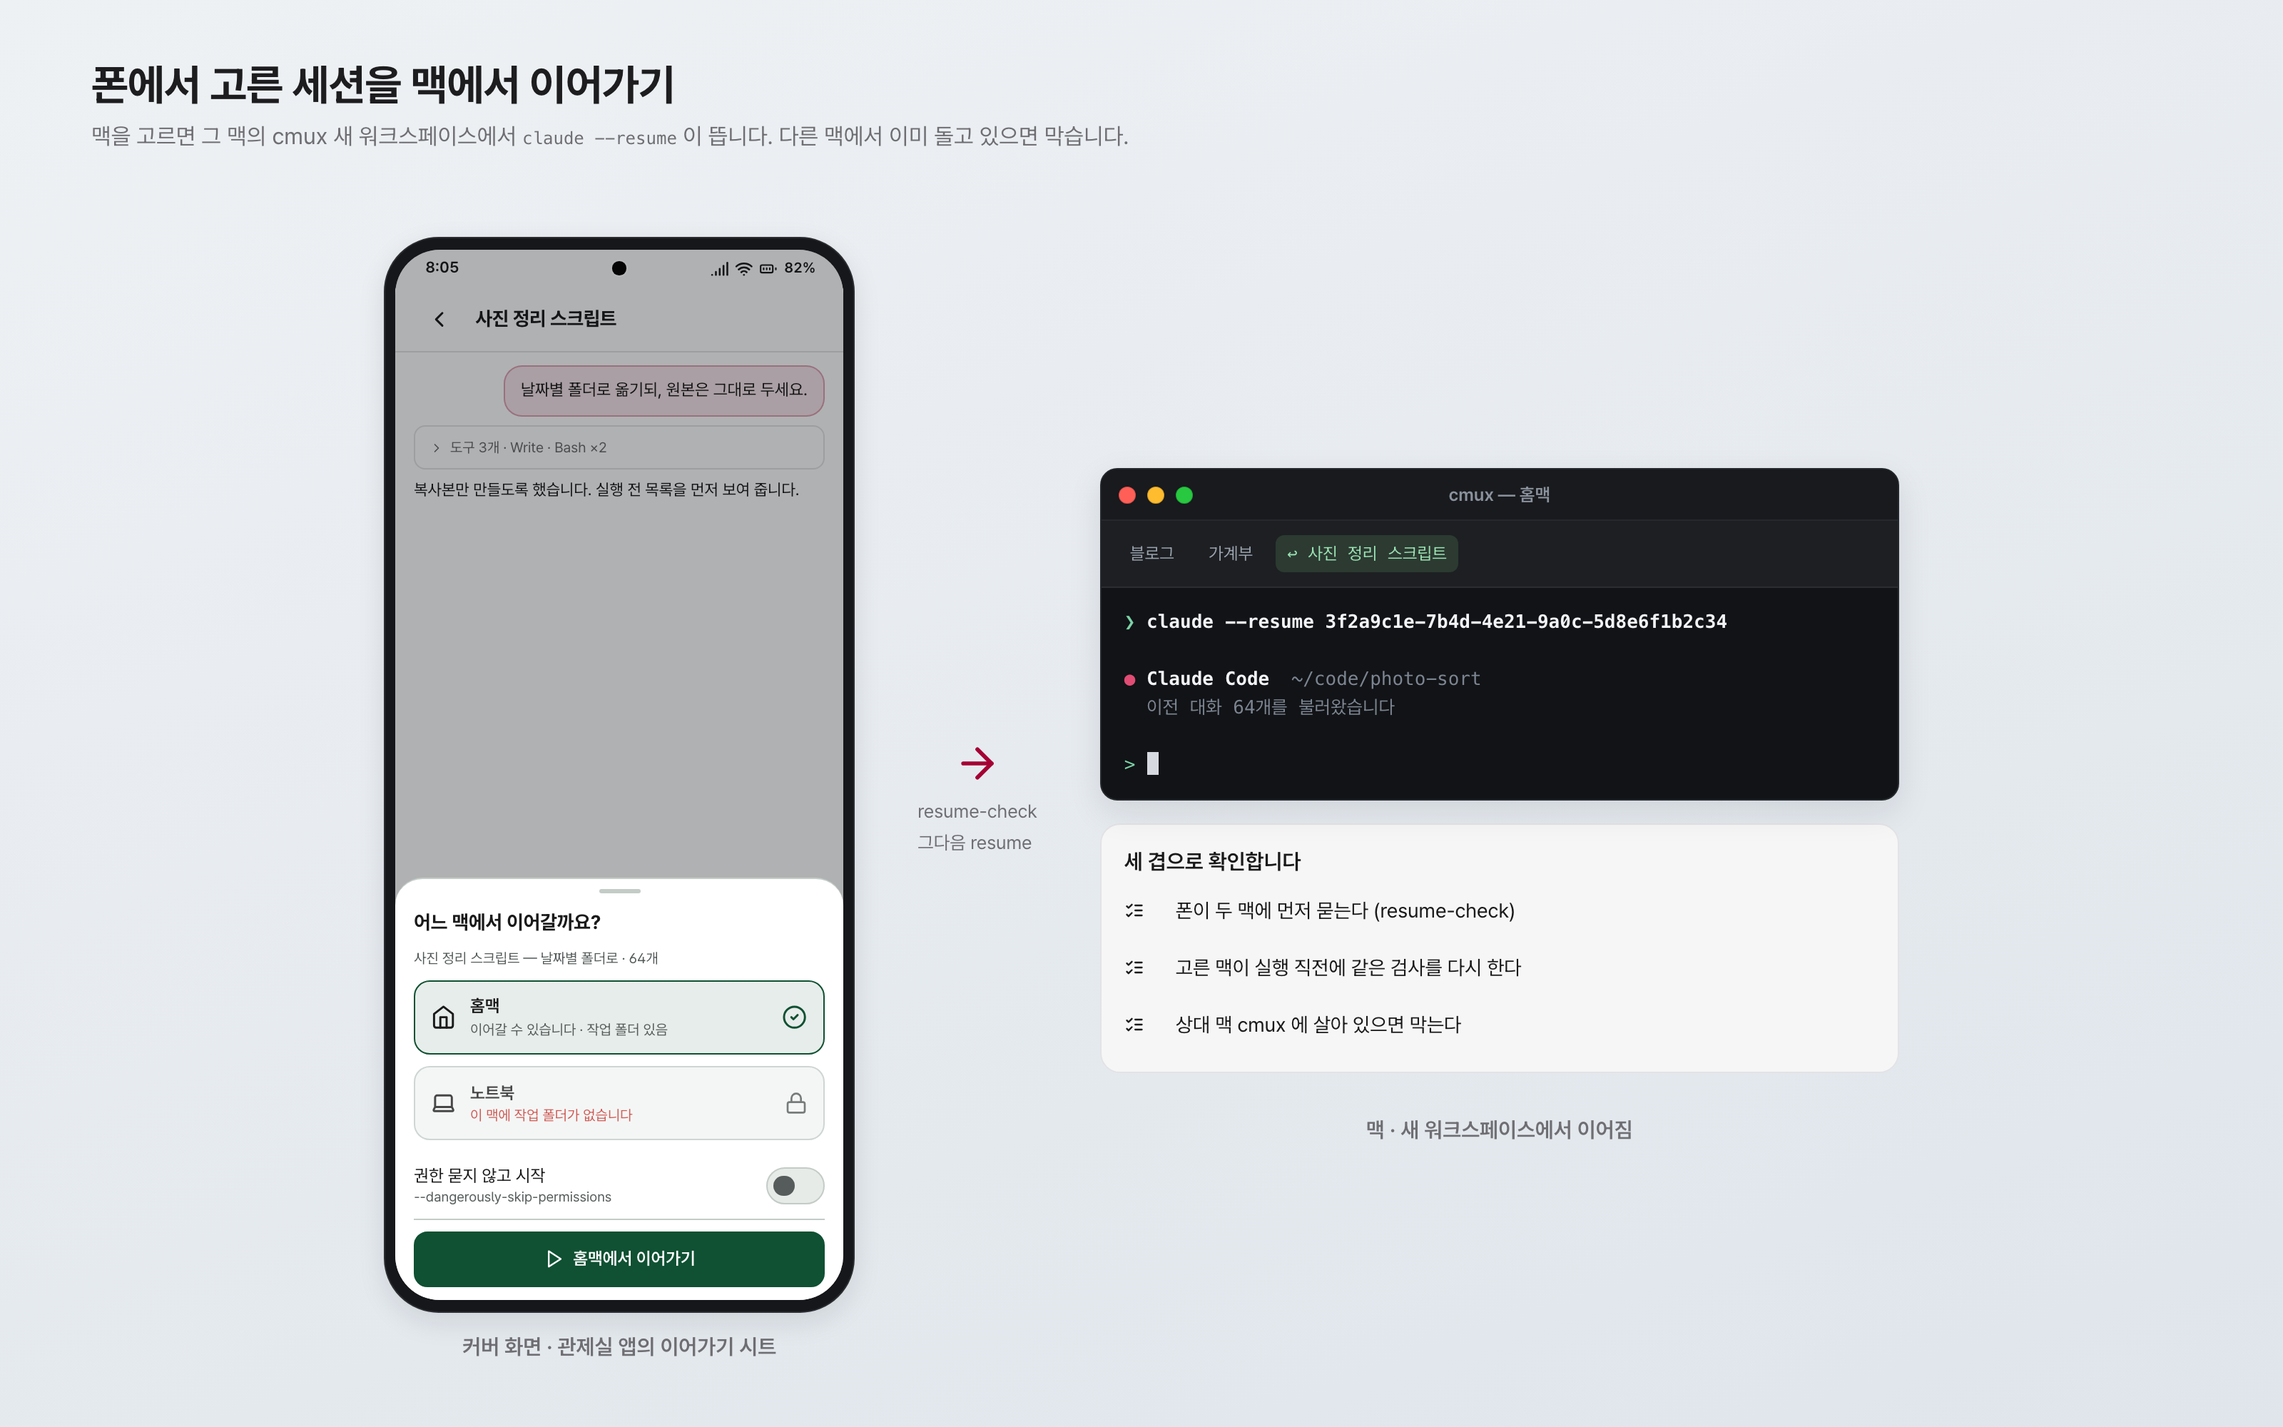
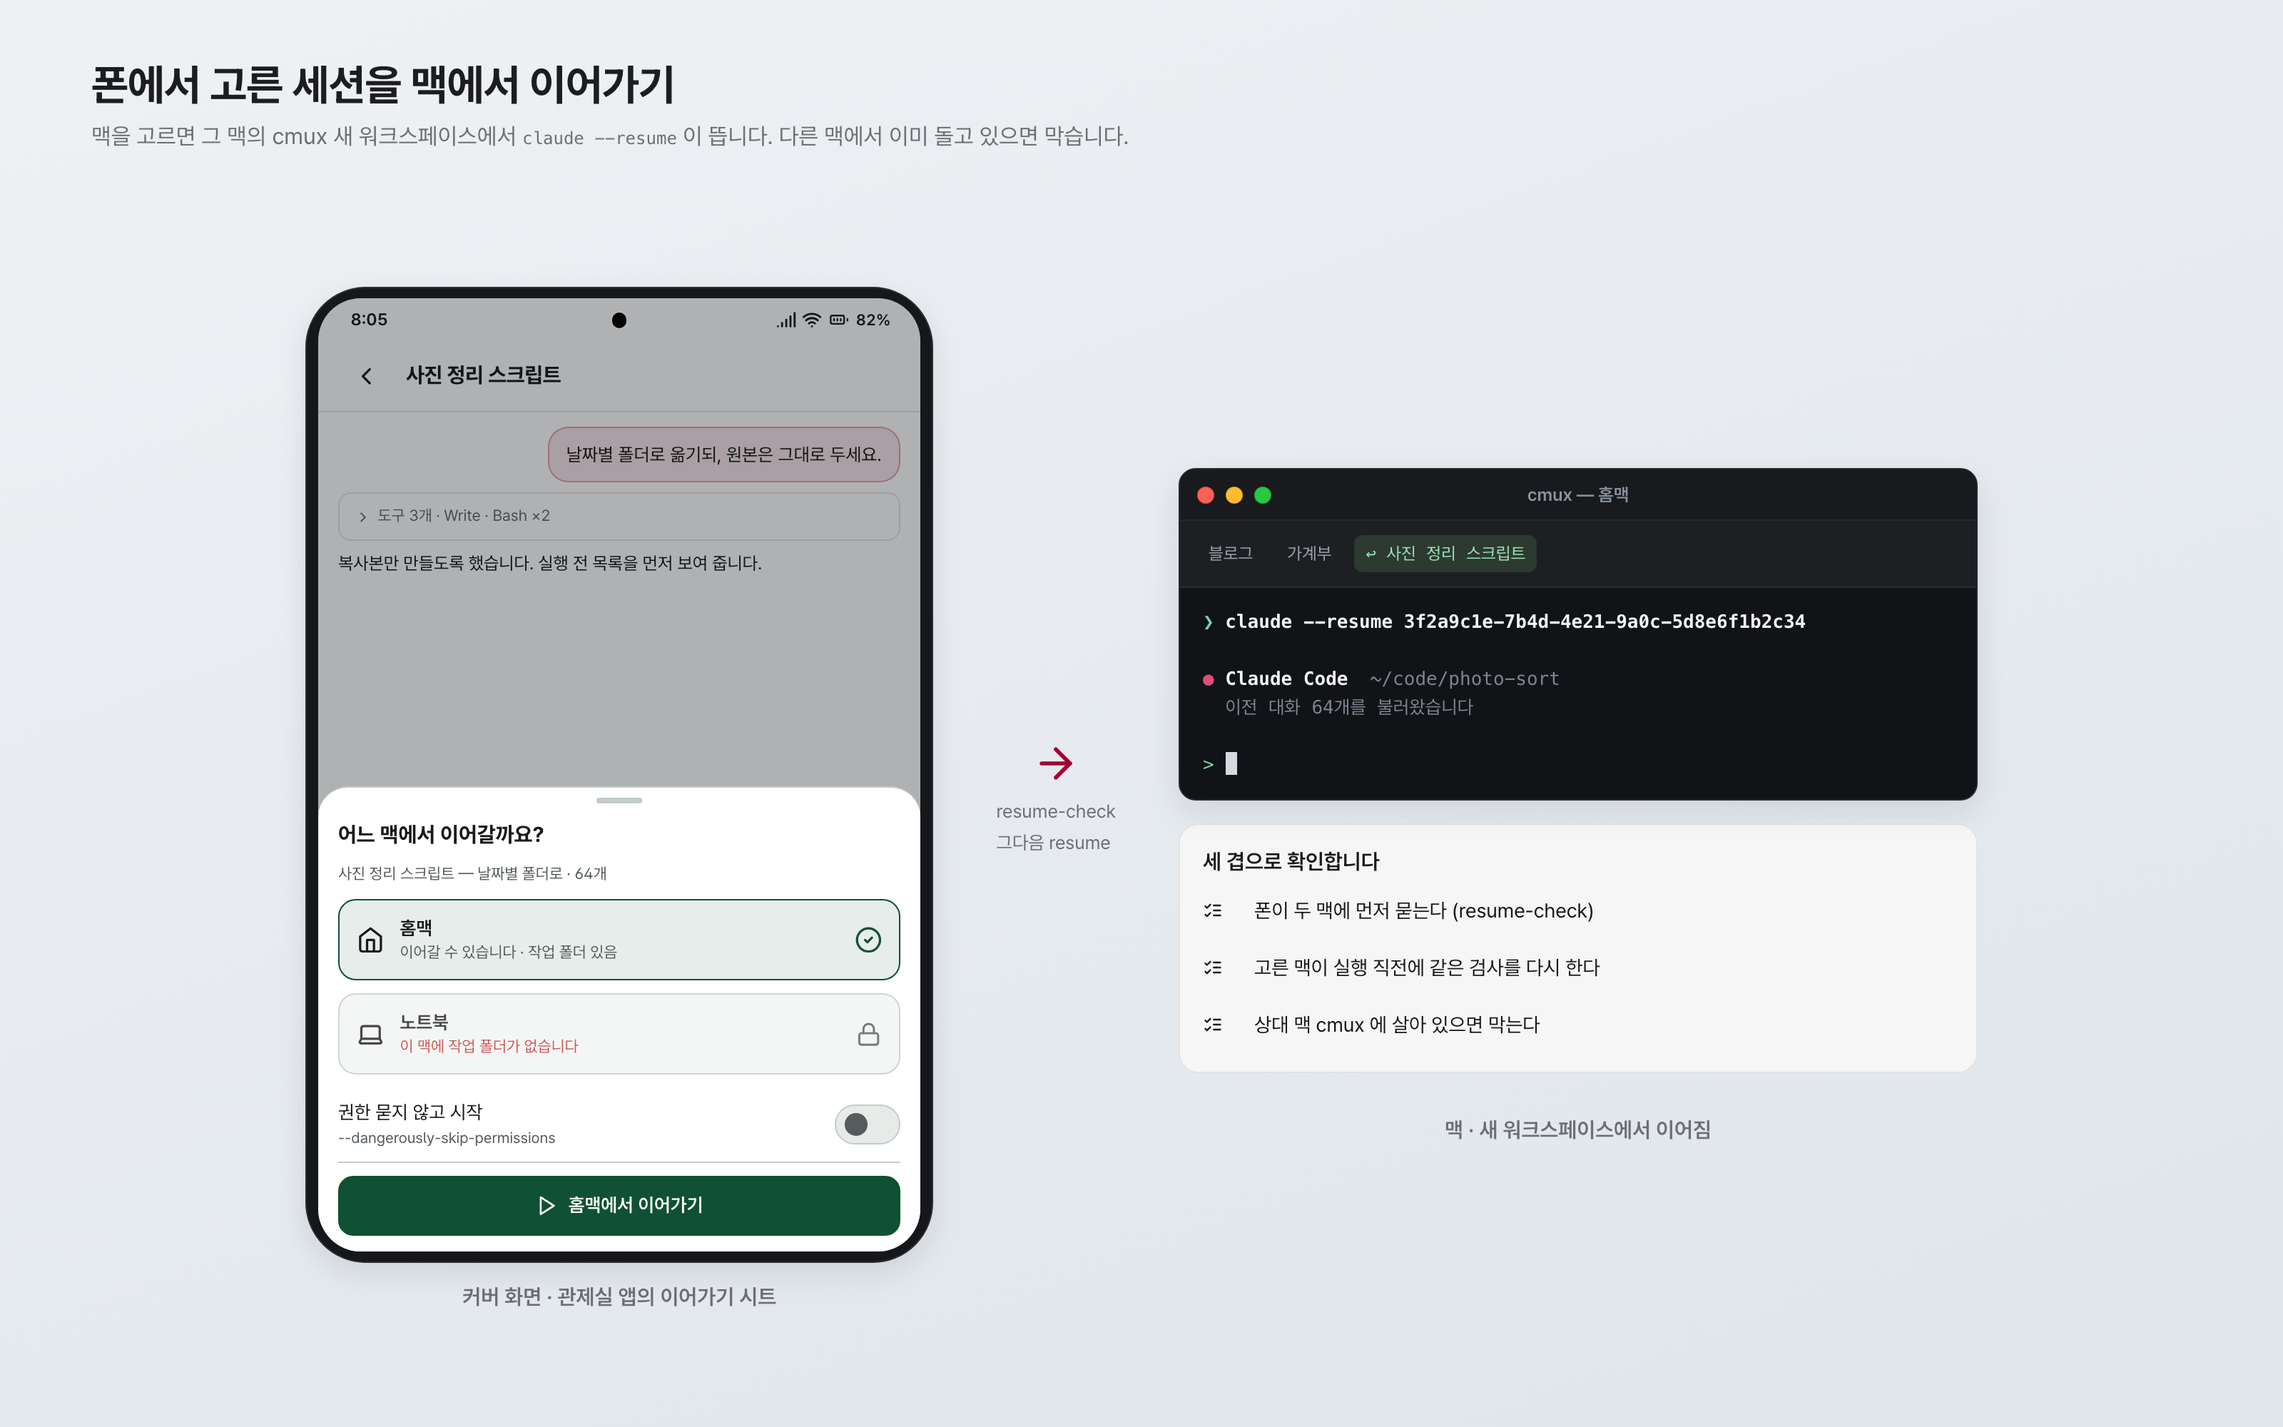
docs: re-render mockups at real Galaxy Z Fold8 ratios
Cover 480x758dp (0.63:1), unfolded 940x710dp landscape with a vertical
crease. Two-pane layouts split at the crease, the cover session list flows
as a two-column tile grid, tabletop uses the portrait-held unfolded screen
(horizontal crease). Resume scene recomposed on the corrected cover base.

diff --git a/docs/mockups/thumbnail.html b/docs/mockups/thumbnail.html
@@ -45,13 +45,36 @@
   .find { display: flex; align-items: center; gap: 10px; height: 38px; padding: 0 12px; border-radius: 10px; background: var(--panel2); font-size: 13.5px; color: var(--text); }
   .find i { font-size: 16px; color: var(--dim); }
   .aa { font-weight: 700; }
-  .tlay { position: absolute; inset: 0; display: flex; flex-wrap: nowrap; align-items: center; justify-content: center; gap: 40px; padding: 0 50px; }
-  .txt { width: 470px; flex: none; display: flex; flex-direction: column; gap: 18px; }
+  .tlay { position: absolute; inset: 0; display: flex; flex-wrap: nowrap; align-items: center; justify-content: center; gap: 34px; padding: 0 40px; }
+  .txt { width: 420px; flex: none; display: flex; flex-direction: column; gap: 18px; }
   .txt .appicon { width: 96px; height: 96px; border-radius: 24px; }
   .txt h1 { margin: 0; font-size: 60px; line-height: 70px; font-weight: 800; letter-spacing: -1px; color: var(--mac-text); }
   .txt p { margin: 0; font-size: 24px; line-height: 36px; color: var(--mac-dim); }
   .pills { display: flex; gap: 10px; flex-wrap: wrap; }
   .pills span { font-size: 17px; padding: 6px 14px; border-radius: 999px; background: color-mix(in srgb, #A50034 10%, white); color: #A50034; font-weight: 600; }
+
+  /* 폴드8 실측 비율: 펼침 940x710 가로 → 2칸을 세로 접힘선에서 반씩 */
+  .two-pane.list-detail { grid-template-columns: 1fr 1fr; }
+  .list-detail .sess { display: grid; grid-template-columns: minmax(0,1fr) auto; column-gap: 10px; row-gap: 3px; padding: 8px 14px; }
+  .list-detail .sess > .top, .list-detail .sess > .snip { grid-column: 1 / -1; }
+  .list-detail .sess > .t { grid-column: 1; grid-row: 2; }
+  .list-detail .sess > .tags, .list-detail .sess > .fold { grid-column: 2; grid-row: 2; align-self: center; }
+
+  /* 폴드8 커버 480x758 (0.63:1) — 넓은 화면이라 목록을 2열 타일로 흘린다 */
+  .cover-list { display: grid !important; grid-template-columns: 1fr 1fr; align-content: start; gap: 10px !important; padding: 0 12px 12px !important; }
+  .cover-list > .head, .cover-list > .group-h { grid-column: 1 / -1; margin: 0 -12px; }
+  .cover-list > .group-h { margin-bottom: 0; }
+  .cover-list .sess { border: 1px solid var(--border); border-radius: 14px; padding: 12px 12px !important; gap: 8px; background: var(--panel); min-height: 104px; }
+  .cover-list .sess .t { font-size: 15px; line-height: 21px; }
+  .list-detail .head.inline { flex-direction: row; align-items: center; }
+  .list-detail .head.inline .search { flex: 1; min-width: 0; }
+  .list-detail .head.inline .chips { flex: none; flex-wrap: nowrap; }
+  .list-detail > .pane:not(.flush) { gap: 6px; padding-top: 10px; }
+  .list-detail .code { margin-top: 3px; }
+  .list-detail .head.inline { gap: 6px; }
+  .list-detail .head.inline .chips { gap: 4px; }
+  .list-detail .head.inline .chip { padding: 0 8px; gap: 3px; font-size: 12.5px; }
+  .list-detail .head.inline .search { padding: 0 10px; gap: 6px; font-size: 13px; }
 </style>
 </head>
 <body>
@@ -63,7 +86,7 @@
       <p>두 맥의 Claude Code 대화를<br>폴드8에서 찾고 읽고 이어갑니다.</p>
       <div class="pills"><span>커버 1칸</span><span>펼침 2칸</span><span>테이블톱</span><span>맥에서 이어가기</span></div>
     </div>
-    <div class="fold-open" style="--zoom:.68">
+    <div class="fold-open" style="--zoom:.64">
         <div class="screen">
           <div class="status-bar" data-time="3:19"></div>
           <div class="app-bar">
@@ -76,8 +99,8 @@
           </div>
           <div class="two-pane list-detail">
             <div class="pane flush">
-              <div class="head">
-                <div class="search"><i data-icon="search"></i>세션 검색… (엔터 = 본문)</div>
+              <div class="head inline">
+                <div class="search"><i data-icon="search"></i><span class="ellipsis">세션 검색… (엔터 = 본문)</span></div>
                 <div class="chips">
                   <span class="chip"><i data-icon="folder"></i>폴더</span>
                   <span class="chip"><i data-icon="calendar"></i>날짜</span>
@@ -147,7 +170,7 @@
           <div class="nav-handle"></div>
         </div>
       </div>
-    <div class="fold-cover" style="--zoom:.68">
+    <div class="fold-cover" style="--zoom:.64">
         <div class="screen">
           <div class="status-bar" data-time="3:19"></div>
           <div class="app-bar">

diff --git a/docs/mockups/hero.html b/docs/mockups/hero.html
@@ -7,8 +7,8 @@
 <link rel="stylesheet" href="https://mockup-kit.invalid/kit.css">
 <script src="https://mockup-kit.invalid/kit.js"></script>
 <style>
-  .layout { position: absolute; top: 30px; left: 0; right: 0; bottom: 0; display: flex; align-items: center; justify-content: center; gap: 32px; }
-  .mac-col { width: 430px; display: flex; flex-direction: column; gap: 18px; align-self: stretch; justify-content: center; padding-top: 10px; }
+  .layout { position: absolute; top: 30px; left: 0; right: 0; bottom: 0; display: flex; align-items: center; justify-content: center; gap: 26px; }
+  .mac-col { width: 400px; display: flex; flex-direction: column; gap: 18px; align-self: stretch; justify-content: center; padding-top: 10px; }
   .search { display: flex; align-items: center; gap: 8px; height: 40px; padding: 0 12px; border-radius: 12px; background: var(--panel2); color: var(--dim); font-size: 14px; }
   .search i { font-size: 18px; }
   .live { display: inline-flex; align-items: center; gap: 5px; padding: 1px 8px; border-radius: 6px; font-size: 11.5px; line-height: 18px; font-weight: 600;
@@ -37,6 +37,29 @@
   .ai ul { margin: 4px 0 0 18px; padding: 0; }
   .btn-sm { height: 32px; padding: 0 12px; font-size: 13px; }
   .cover-list .sess { padding: 10px 12px; }
+
+  /* 폴드8 실측 비율: 펼침 940x710 가로 → 2칸을 세로 접힘선에서 반씩 */
+  .two-pane.list-detail { grid-template-columns: 1fr 1fr; }
+  .list-detail .sess { display: grid; grid-template-columns: minmax(0,1fr) auto; column-gap: 10px; row-gap: 3px; padding: 8px 14px; }
+  .list-detail .sess > .top, .list-detail .sess > .snip { grid-column: 1 / -1; }
+  .list-detail .sess > .t { grid-column: 1; grid-row: 2; }
+  .list-detail .sess > .tags, .list-detail .sess > .fold { grid-column: 2; grid-row: 2; align-self: center; }
+
+  /* 폴드8 커버 480x758 (0.63:1) — 넓은 화면이라 목록을 2열 타일로 흘린다 */
+  .cover-list { display: grid !important; grid-template-columns: 1fr 1fr; align-content: start; gap: 10px !important; padding: 0 12px 12px !important; }
+  .cover-list > .head, .cover-list > .group-h { grid-column: 1 / -1; margin: 0 -12px; }
+  .cover-list > .group-h { margin-bottom: 0; }
+  .cover-list .sess { border: 1px solid var(--border); border-radius: 14px; padding: 12px 12px !important; gap: 8px; background: var(--panel); min-height: 104px; }
+  .cover-list .sess .t { font-size: 15px; line-height: 21px; }
+  .list-detail .head.inline { flex-direction: row; align-items: center; }
+  .list-detail .head.inline .search { flex: 1; min-width: 0; }
+  .list-detail .head.inline .chips { flex: none; flex-wrap: nowrap; }
+  .list-detail > .pane:not(.flush) { gap: 6px; padding-top: 10px; }
+  .list-detail .code { margin-top: 3px; }
+  .list-detail .head.inline { gap: 6px; }
+  .list-detail .head.inline .chips { gap: 4px; }
+  .list-detail .head.inline .chip { padding: 0 8px; gap: 3px; font-size: 12.5px; }
+  .list-detail .head.inline .search { padding: 0 10px; gap: 6px; font-size: 13px; }
 </style>
 </head>
 <body>
@@ -56,7 +79,7 @@
 
     <!-- 펼침: 목록 + 대화 -->
     <div>
-      <div class="fold-open" style="--zoom:.76">
+      <div class="fold-open" style="--zoom:.72">
         <div class="screen">
           <div class="status-bar" data-time="3:19"></div>
           <div class="app-bar">
@@ -69,8 +92,8 @@
           </div>
           <div class="two-pane list-detail">
             <div class="pane flush">
-              <div class="head">
-                <div class="search"><i data-icon="search"></i>세션 검색… (엔터 = 본문)</div>
+              <div class="head inline">
+                <div class="search"><i data-icon="search"></i><span class="ellipsis">세션 검색… (엔터 = 본문)</span></div>
                 <div class="chips">
                   <span class="chip"><i data-icon="folder"></i>폴더</span>
                   <span class="chip"><i data-icon="calendar"></i>날짜</span>
@@ -145,7 +168,7 @@
 
     <!-- 커버: 목록 1칸 -->
     <div>
-      <div class="fold-cover" style="--zoom:.76">
+      <div class="fold-cover" style="--zoom:.72">
         <div class="screen">
           <div class="status-bar" data-time="3:19"></div>
           <div class="app-bar">

diff --git a/docs/mockups/tabletop.html b/docs/mockups/tabletop.html
@@ -46,14 +46,11 @@
   .find i { font-size: 16px; color: var(--dim); }
   .aa { font-weight: 700; }
   .layout { position: absolute; top: 130px; left: 0; right: 0; bottom: 0; display: flex; align-items: center; justify-content: center; gap: 48px; }
-  .fold-open.land > .screen { width: 940px; height: 832px; }
-  .fold-open.land > .screen::before { top: calc(50% - 12px); bottom: auto; left: 0; right: 0; width: auto; height: 24px;
-    background: linear-gradient(180deg, transparent 0%, rgba(255,255,255,.03) 42%, rgba(0,0,0,.18) 50%, rgba(255,255,255,.03) 58%, transparent 100%); }
-  .fold-open.land > .screen::after { top: 12px; left: 50%; }
-  .upper { height: 382px; display: flex; flex-direction: column; gap: 8px; padding: 10px 18px; overflow: hidden; }
+  /* 폴드8 펼침을 세로로 세운 반접힘: 710x940, 접힘선 가로(킷 .portrait) → 위아래 470 씩 */
+  .upper { height: 436px; display: flex; flex-direction: column; gap: 8px; padding: 10px 18px; overflow: hidden; }
   .lower { flex: 1; min-height: 0; border-top: 1px solid var(--border); padding: 18px 18px 8px; display: flex; flex-direction: column; gap: 12px; background: var(--panel); }
   .cards { display: grid; grid-template-columns: repeat(3, 1fr) 40px; gap: 12px; }
-  .scard { border: 1px solid var(--border); border-radius: 14px; padding: 12px 14px; display: flex; flex-direction: column; gap: 6px; background: var(--raised); height: 136px; }
+  .scard { border: 1px solid var(--border); border-radius: 14px; padding: 12px 14px; display: flex; flex-direction: column; gap: 6px; background: var(--raised); height: 190px; }
   .scard.on { border: 2px solid var(--accent); background: var(--accent-tint); }
   .scard .t { font-size: 14.5px; line-height: 20px; font-weight: 600; }
   .peek { border: 1px solid var(--border); border-radius: 14px 0 0 14px; border-right: 0; background: var(--raised); }
@@ -73,7 +70,7 @@
   </div>
   <div class="layout">
     <div>
-      <div class="fold-open land" style="--zoom:.74">
+      <div class="fold-open portrait" style="--zoom:.82">
         <div class="screen">
           <div class="status-bar" data-time="11:08"></div>
           <div class="upper">

diff --git a/docs/mockups/search.html b/docs/mockups/search.html
@@ -47,6 +47,17 @@
   .aa { font-weight: 700; }
   .layout { position: absolute; top: 120px; left: 0; right: 0; bottom: 0; display: flex; align-items: center; justify-content: center; gap: 48px; }
   .code { white-space: pre-wrap; }
+
+  /* 폴드8 실측 비율: 펼침 940x710 가로 → 2칸을 세로 접힘선에서 반씩 */
+  .two-pane.list-detail { grid-template-columns: 1fr 1fr; }
+  .list-detail .sess { display: grid; grid-template-columns: minmax(0,1fr) auto; column-gap: 10px; row-gap: 3px; padding: 8px 14px; }
+  .list-detail .sess > .top, .list-detail .sess > .snip { grid-column: 1 / -1; }
+  .list-detail .sess > .t { grid-column: 1; grid-row: 2; }
+  .list-detail .sess > .tags, .list-detail .sess > .fold { grid-column: 2; grid-row: 2; align-self: center; }
+  /* 넓어진 목록 칸: 날짜·점수를 제목 줄 오른쪽으로 */
+  .list-detail .sess > .t { grid-row: 1; }
+  .list-detail .sess > .top { grid-column: 2; grid-row: 1; }
+  .list-detail .sess > .snip { grid-row: 2; }
 </style>
 </head>
 <body>
@@ -57,7 +68,7 @@
   </div>
   <div class="layout">
     <div>
-      <div class="fold-open" style="--zoom:.74">
+      <div class="fold-open" style="--zoom:.8">
         <div class="screen">
           <div class="status-bar" data-time="9:42"></div>
           <div class="app-bar">
@@ -134,7 +145,7 @@
     </div>
 
     <div>
-      <div class="fold-cover" style="--zoom:.74">
+      <div class="fold-cover" style="--zoom:.8">
         <div class="screen">
           <div class="status-bar" data-time="9:42"></div>
           <div class="app-bar">

diff --git a/docs/mockups/scenes/02-resume-mac.html b/docs/mockups/scenes/02-resume-mac.html
@@ -1,7 +1,7 @@
 <!doctype html>
 <html lang="ko"><head><meta charset="utf-8">
-<!-- 맥 화면 오른쪽 일부(1.39:1) — 배경 G_close_cover (왼쪽은 화분에 가림) -->
-<meta name="shot" content="w=1000,h=720,scale=1.8">
+<!-- 맥 화면 오른쪽 일부(1.24:1) — 배경 G_close_cover (왼쪽은 화분에 가림) -->
+<meta name="shot" content="w=1000,h=808,scale=1.8">
 <link rel="stylesheet" href="https://mockup-kit.invalid/kit.css">
 <script src="https://mockup-kit.invalid/kit.js"></script>
 <link rel="stylesheet" href="scene.css">

diff --git a/docs/mockups/scenes/02-resume-phone.html b/docs/mockups/scenes/02-resume-phone.html
@@ -1,7 +1,7 @@
 <!doctype html>
 <html lang="ko"><head><meta charset="utf-8">
-<!-- 폴드8 커버 화면(세로 0.72:1) — 배경 G_close_cover -->
-<meta name="shot" content="w=300,h=417,scale=4.32">
+<!-- 폴드8 커버 화면(0.63:1, 책처럼 넓음) — 배경 G_close_cover -->
+<meta name="shot" content="w=300,h=475,scale=3.79">
 <link rel="stylesheet" href="https://mockup-kit.invalid/kit.css">
 <script src="https://mockup-kit.invalid/kit.js"></script>
 <link rel="stylesheet" href="scene.css">

diff --git a/docs/mockups/resume.html b/docs/mockups/resume.html
@@ -71,7 +71,7 @@
   </div>
   <div class="layout">
     <div>
-      <div class="fold-cover" style="--zoom:.8">
+      <div class="fold-cover" style="--zoom:.88">
         <div class="screen">
           <div class="status-bar" data-time="8:05"></div>
           <div class="app-bar">
